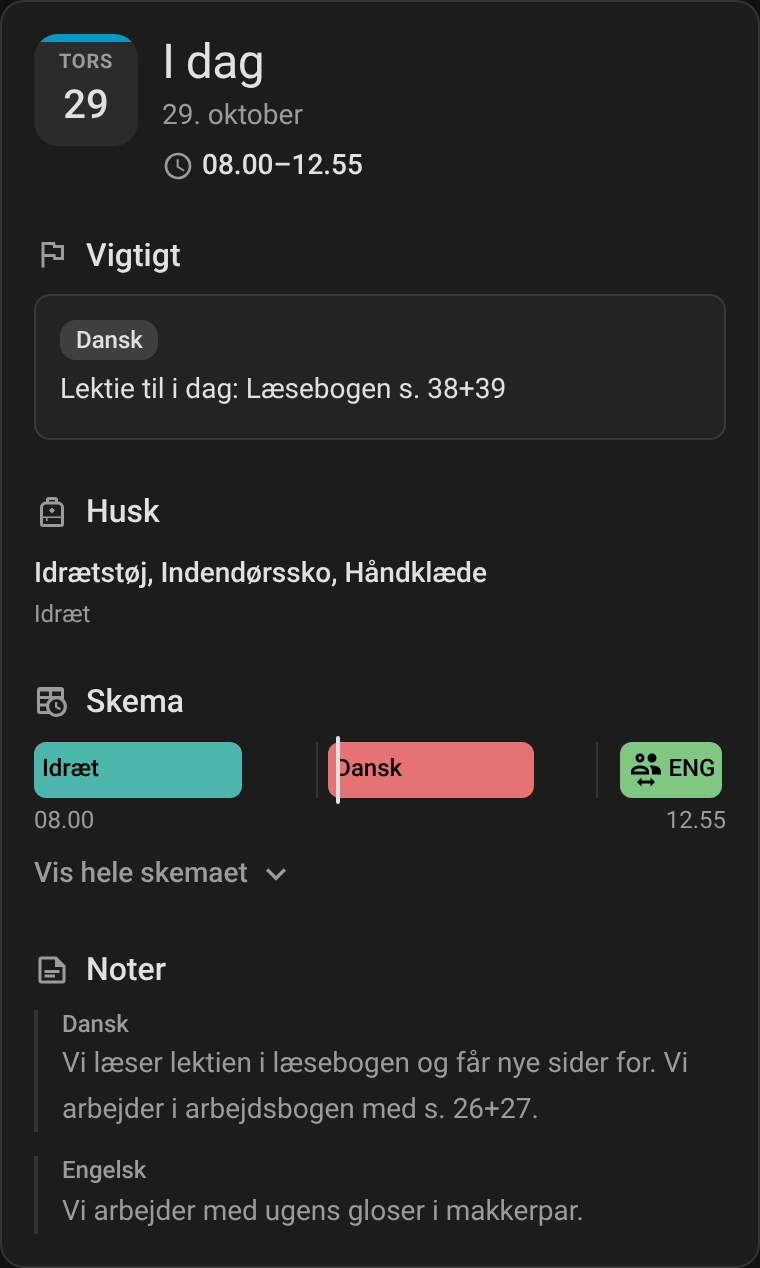
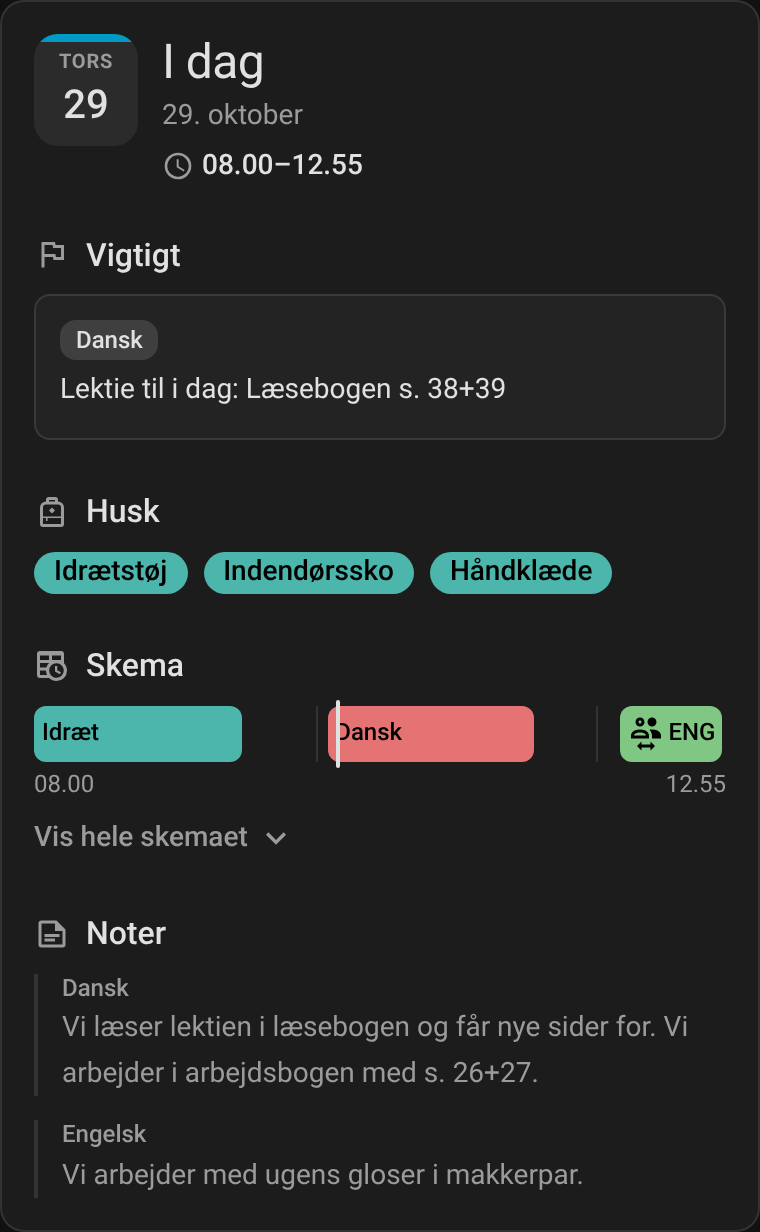
Show the things to bring in their subject's colour, as large as the rest (#24)
- Each thing to bring is a label in its subject's colour, as the subject's part of the day's
  bar, its text black or white.
- The subject is named under its things only where it has no colour; a screen reader hears it
  either way, and the things apart.
- On the wall the things are as large as the rest of the text, no longer a title's size.

Claude-Session: https://claude.ai/code/session_01SqQDNZBDdSDZgAEZdkAgqw

diff --git a/tests/ui/cards-render.test.ts b/tests/ui/cards-render.test.ts
@@ -287,6 +287,28 @@ describe("abbreviations", () => {
     expect(texts(card, ".pack-item")).toEqual(["Idrætstøj"]);
     expect(texts(card, ".pack-source")).toEqual(["IDR"]);
   });
+
+  it("show what to bring in its subject's colour, naming the subject only to a screen reader", async () => {
+    const packing = [{ subject: "Idræt", items: ["Idrætstøj", "Håndklæde"] }];
+    const { card } = await mount(DAY, "thu-1010", { config: { children: [1001], packing } });
+    const sport = present(card.shadowRoot?.querySelector(".pack-row"));
+    expect(sport.getAttribute("style")).toBe("--subject: #4db6ac");
+    expect(present(sport.querySelector(".pack-source")).classList.contains("sr")).toBe(true);
+    expect(sport.textContent.replace(/\s+/g, " ").trim()).toBe("Idrætstøj, Håndklæde Idræt");
+  });
+
+  it("name the subject of things to bring that has no colour", async () => {
+    const { card } = await mount(DAY, "thu-1010", {
+      config: {
+        children: [1001],
+        packing: [{ subject: "Idræt", items: ["Idrætstøj"] }],
+        subject_names: [{ aula: "Idræt", color: null }],
+      },
+    });
+    const sport = present(card.shadowRoot?.querySelector(".pack-row"));
+    expect(sport.getAttribute("style")).toBe("");
+    expect(present(sport.querySelector(".pack-source")).classList.contains("sr")).toBe(false);
+  });
 });
 
 describe("the school day card grouped by child", () => {

diff --git a/src/ui/styles.ts b/src/ui/styles.ts
@@ -712,31 +712,27 @@ export const blocks = css`
     flex-direction: column;
     gap: 2px;
   }
+  /* Each thing in its subject's colour, as the subject's part of the day's bar is. */
   .pack-what {
+    display: flex;
+    flex-wrap: wrap;
+    gap: var(--aula-space-2);
     font-weight: var(--aula-medium);
-    line-height: var(--aula-paragraph);
+    line-height: var(--aula-condensed);
     overflow-wrap: anywhere;
   }
-  .pack-item + .pack-item::before {
-    content: ", ";
+  .pack-item {
+    padding: 2px calc(10px * var(--aula-scale));
+    border-radius: 999px;
+    background: var(--subject, var(--aula-fill-strong));
+    color: lch(from var(--subject) calc((49.4 - l) * 1e9) 0 0);
   }
   .pack-source {
     color: var(--aula-text-2);
     font-size: var(--aula-font-s);
   }
-  /* On the wall what to bring is read from across the kitchen. */
-  .large .pack-what {
-    font-size: calc(var(--ha-font-size-xl, 20px) * 1.5);
-    line-height: var(--aula-condensed);
-  }
   .large .pack-subjects {
     font-size: calc(var(--ha-font-size-l, 16px) * 1.5);
-  }
-  .large .pack-item {
-    display: block;
-  }
-  .large .pack-item + .pack-item::before {
-    content: none;
   }
 
   .lessons {

diff --git a/tests/ui/styles.test.ts b/tests/ui/styles.test.ts
@@ -48,11 +48,20 @@ function declared(sheet: string, selector: string, within = ""): string[] {
 
 const ALL = [base, blocks, dayStyles, homeworkStyles, weekStyles];
 
-describe("the wall screen", () => {
-  it("sets what to bring, set up or quoted, at 30 px, and the subjects at 24 px", () => {
-    expect(declared(blocks, ".large .pack-what")).toContain(
-      "font-size: calc(var(--ha-font-size-xl, 20px) * 1.5)",
+describe("the things to bring", () => {
+  it("stand each in its subject's colour, its text black or white, grey without one", () => {
+    expect(declared(blocks, ".pack-item")).toEqual(
+      expect.arrayContaining([
+        "background: var(--subject, var(--aula-fill-strong))",
+        "color: lch(from var(--subject) calc((49.4 - l) * 1e9) 0 0)",
+      ]),
     );
+  });
+});
+
+describe("the wall screen", () => {
+  it("sets what to bring as large as the rest, and the subjects at 24 px", () => {
+    expect(declared(blocks, ".large .pack-what")).toEqual([]);
     expect(declared(blocks, ".large .pack-subjects")).toContain(
       "font-size: calc(var(--ha-font-size-l, 16px) * 1.5)",
     );

diff --git a/src/ui/blocks.ts b/src/ui/blocks.ts
@@ -157,11 +157,19 @@ function pack(part: Part, ctx: ViewContext): TemplateResult {
     }
     ${content.pack.map(
       (row) =>
-        html`<li class="pack-row">
+        html`<li class="pack-row" style=${subjectColor(row.subject)}>
           <span class="pack-what"
-            >${row.items.map((item) => html`<span class="pack-item">${aula(item, ctx)}</span>`)}</span
+            >${row.items.map(
+              (item, index) =>
+                html`${index > 0 ? html`<span class="sr">, </span>` : nothing}<span
+                    class="pack-item"
+                    >${aula(item, ctx)}</span
+                  >`,
+            )}</span
           >
-          <span class="pack-source">${aula(row.subject.name, ctx)}</span>
+          <span class="pack-source ${row.subject.color ? "sr" : ""}"
+            >${aula(row.subject.name, ctx)}</span
+          >
         </li>`,
     )}
   </ul>`;

diff --git a/scripts/screenshot.ts b/scripts/screenshot.ts
@@ -463,7 +463,7 @@ function glance(arg: { tag: string; screen: number; packing: boolean }): string[
     if (below(first) > arg.screen)
       problems.push(`a child's Husk ends ${String(below(first))} px down`);
     for (const item of things) {
-      if (size(item) < 30) problems.push(`a thing to bring is ${String(size(item))} px`);
+      if (size(item) < 21) problems.push(`a thing to bring is ${String(size(item))} px`);
       if (item.scrollHeight > item.clientHeight + 1) problems.push("a thing to bring is cut");
     }
     if (subjects && size(subjects) < 24)

diff --git a/README.md b/README.md
@@ -73,7 +73,8 @@ always as it should be.
   - **Vigtigt** (important): what the week plan marks as a task for that day - homework, a test,
     a thing to do - every one in full: it is never folded.
   - **Husk** (remember): the things to bring for the day's subjects, from your own
-    [packing rules](#things-to-bring).
+    [packing rules](#things-to-bring), each in its subject's [colour](#subject-names) as in the
+    timetable's bar; a subject with no colour is named under its things.
   - **Skema** (timetable): the day as a bar from its first lesson to its last, with its start
     and end under it, a faint line at each full hour and, today, a line at the time it is now.
     Each lesson is a part of the bar in its subject's [colour](#subject-names), grey without one,
@@ -316,8 +317,8 @@ sections:
       - type: custom:aula-connect-weekplan-card
 ```
 
-With `size: large` the header's title is 56 px, each child's hours 36 px and the things to bring
-30 px, read from across a kitchen, and Husk comes first. The first screen of a 1280 × 800 tablet
+With `size: large` the header's title is 56 px, each child's hours 36 px and the rest of the text
+21 px, read from across a kitchen, and Husk comes first. The first screen of a 1280 × 800 tablet
 holds the day, each child's hours and what each child is to bring.
 
 ## The API it uses
